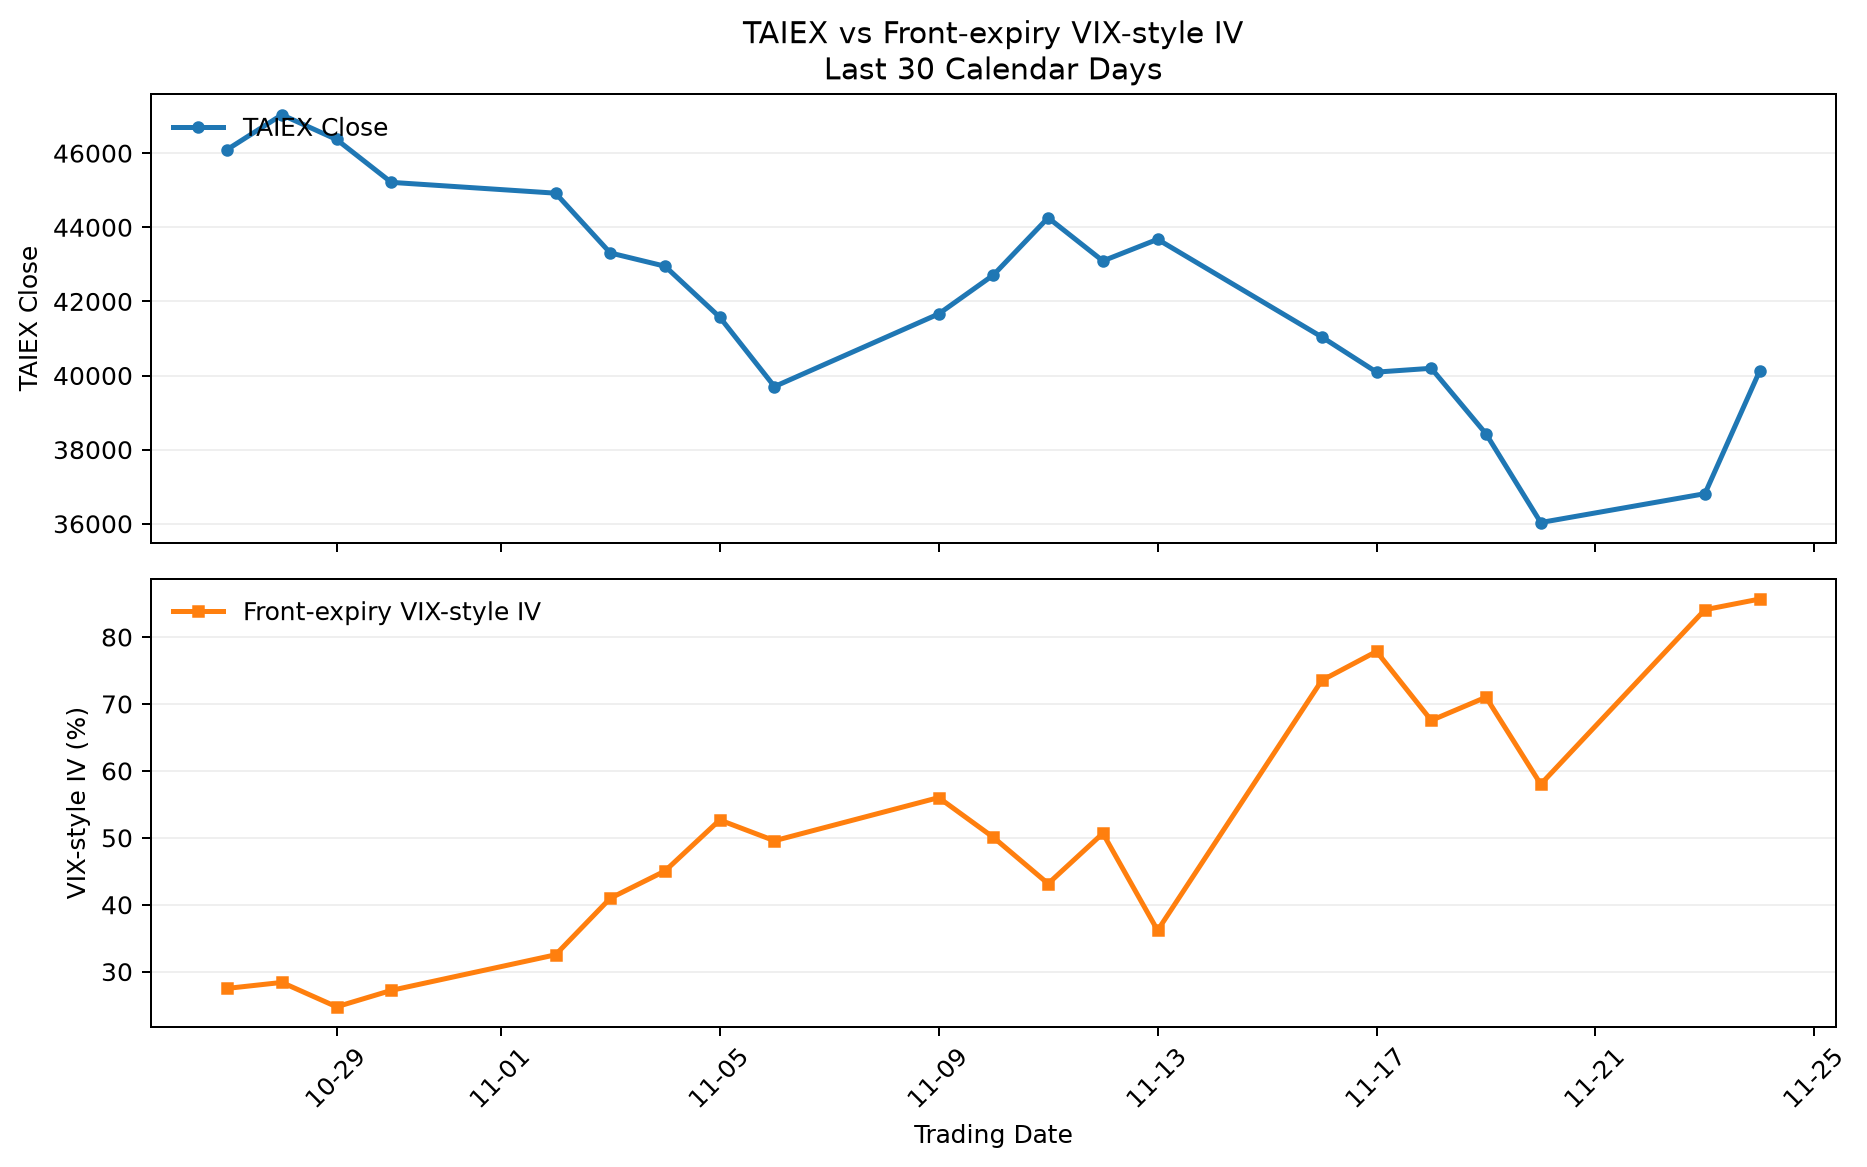
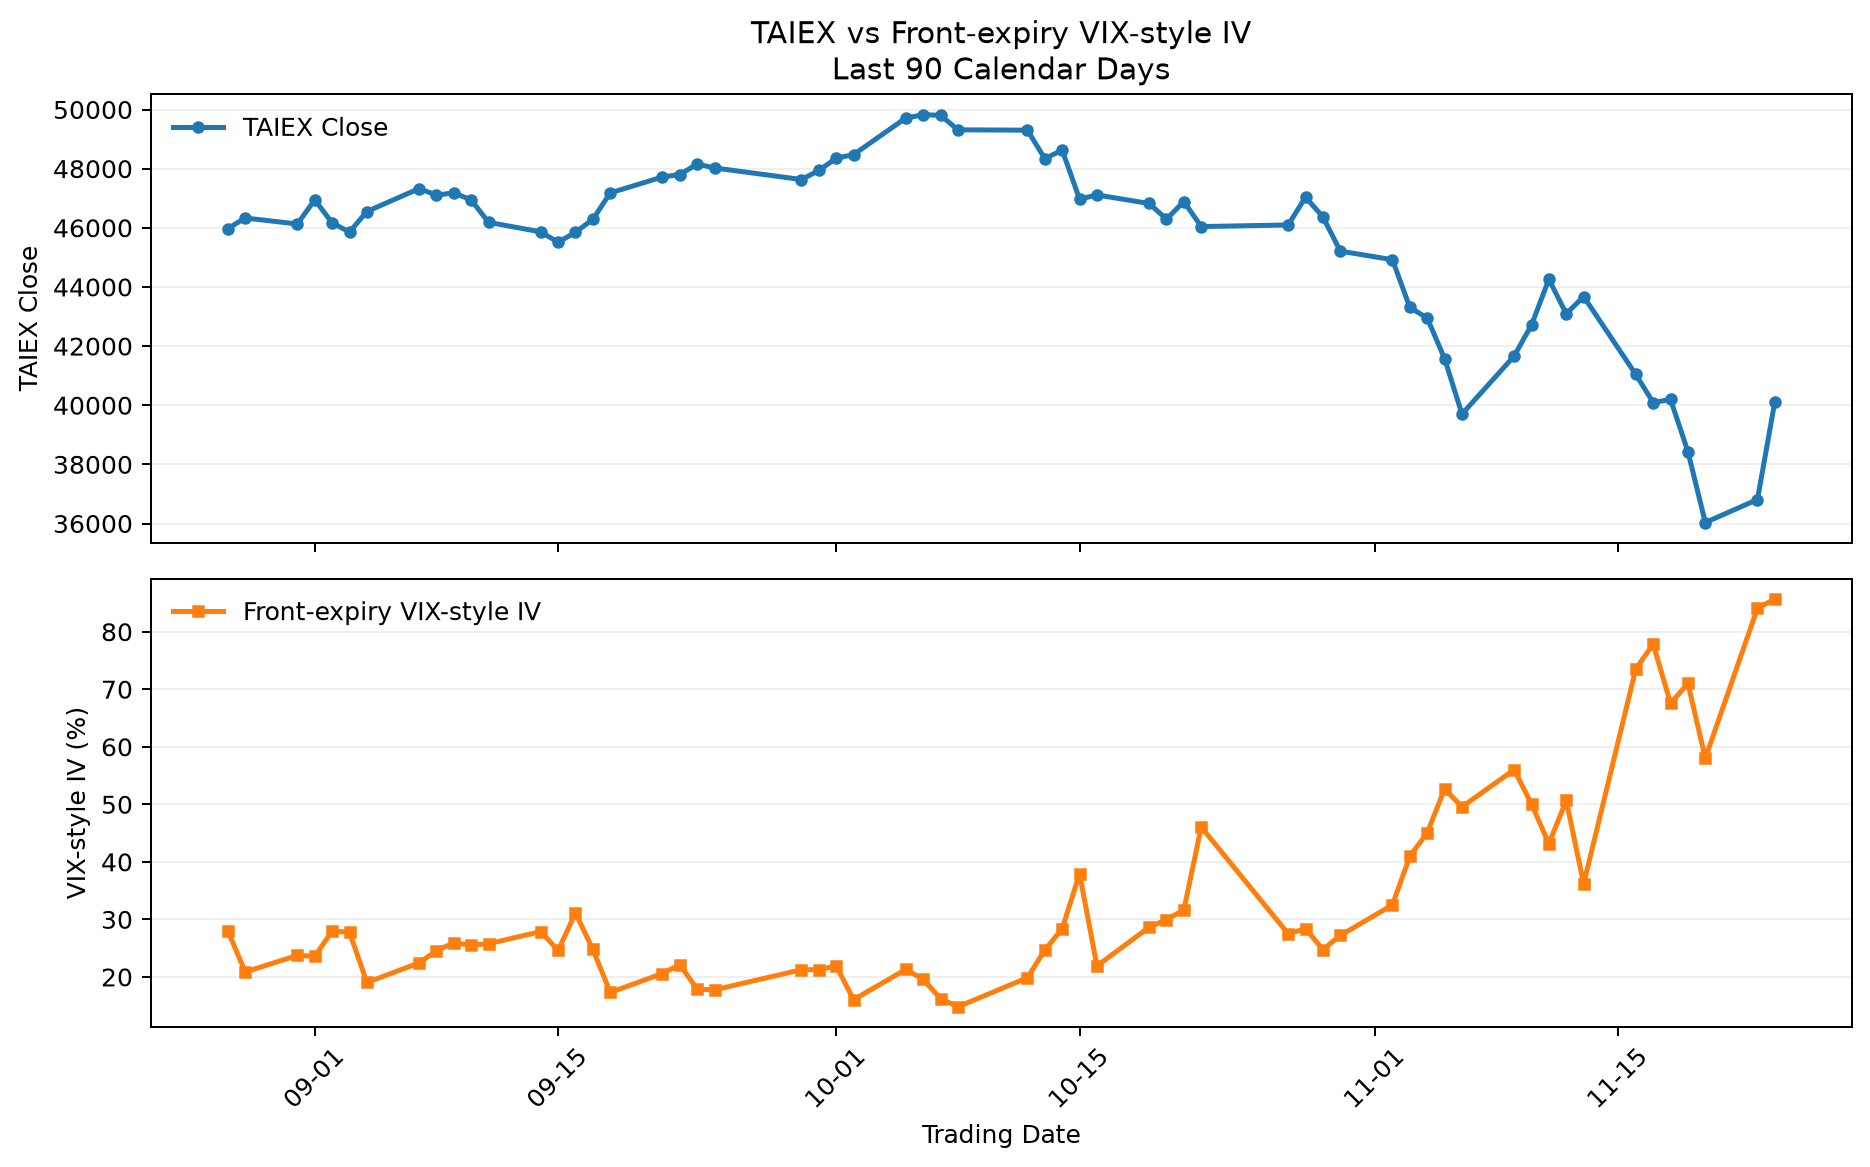
Publish 90 calendar days of front-expiry VIX and TAIEX history

diff --git a/src/market_activity.py b/src/market_activity.py
@@ -254,7 +254,7 @@ def generate_front_vix_taiex_chart(
     )
 
     ax_index.set_ylabel("TAIEX Close")
-    ax_index.set_title("TAIEX vs Front-expiry VIX-style IV\nLast 30 Calendar Days")
+    ax_index.set_title(f"TAIEX vs Front-expiry VIX-style IV\nLast {window_days} Calendar Days")
     ax_index.grid(axis="y", alpha=0.2)
     ax_index.legend(loc="upper left", frameon=False)
 

diff --git a/src/update_latest.py b/src/update_latest.py
@@ -430,7 +430,7 @@ def main() -> None:
                 OUTPUT_DIR
                 / "latest_front_vix_vs_taiex.png",
 
-            window_days=30,
+            window_days=90,
         )
 
     except Exception as exc:
